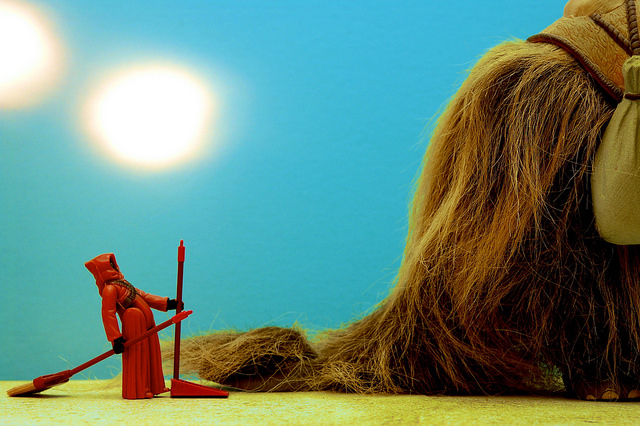
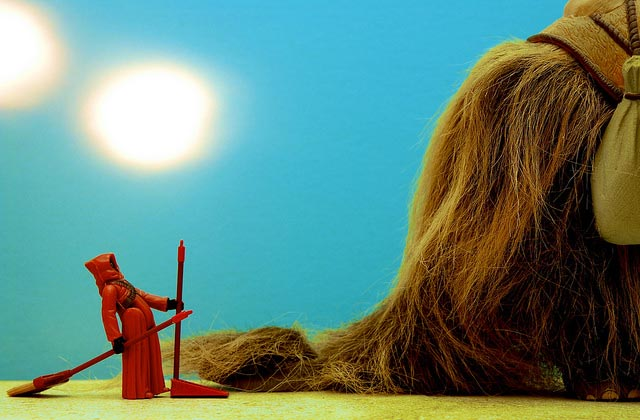
Impl the image slider using css local modules
- Update images - lower res, smaller filesize, consistent dimensions

diff --git a/src/index.js b/src/index.js
@@ -1,11 +1,57 @@
+import autobind from 'autobind-decorator'
 import React from 'react'
-import styleable from 'react-styleable'
 
-@styleable(require('./index.css'))
+import Carousel from './carousel'
+import css from './index.css'
+import Frame from './frame'
+import Nav from './nav'
+import Slide from './slide'
+
+@autobind
 export default class DriftApp extends React.Component {
+  state = {
+    showIndex: 0,
+    numSlides: 5
+  }
+  handleClickPrevious() {
+    this.setState({
+      showIndex: Math.max(this.state.showIndex - 1, 0)
+    })
+  }
+  handleClickNext() {
+    this.setState({
+      showIndex: Math.min(this.state.showIndex + 1, this.state.numSlides - 1)
+    })
+  }
   render() {
     return (
-      <h1 className={this.props.css.title}>Drift!</h1>
+      <Frame>
+        <Carousel showIndex={this.state.showIndex}>
+          <Nav onPrevious={this.handleClickPrevious} hasPrevious={this.state.showIndex > 0}
+               onNext={this.handleClickNext} hasNext={this.state.showIndex < this.state.numSlides - 1} />
+          <Slide image={require('./images/1.jpg')} title="Imperial Mockery">
+            In a show of defiance, rebels have again made mockery of the majesty that is service to the Empire.
+            These objects were immediately removed from the reflecting pool in Coruscant's Central Square when found
+            this morning.
+          </Slide>
+          <Slide image={require('./images/2.jpg')} title="Trooper Initiation">
+            In a tradition that predates the Empire, Troopers seen here are made to suffer the agony of
+            the limbo line.  Such initiation techniques are currently under Imperial review.
+          </Slide>
+          <Slide image={require('./images/3.jpg')} title="Master and Apprentice">
+            Internships work!  When determining a career path, it is wise to first find someone currently in that line of
+            work.  They will likely be able to show you what it's really like before you commit your future.
+          </Slide>
+          <Slide image={require('./images/4.jpg')} title="Battle of Coruscant">
+            Modelers ran out of the pre-Empire model Star Destroyers in this reenactment of the Battle of Coruscant.
+            Various plans for future machines of war were used as filler.
+          </Slide>
+          <Slide image={require('./images/5.jpg')} title="The Wiles of the Forest">
+            After a number of nervous breakdowns, Empire personnel officers are investigating the possibility
+            rotating troopers stationed on the forest moons of Endor after several rotations.
+          </Slide>
+        </Carousel>
+      </Frame>
     )
   }
 }

diff --git a/src/carousel.js b/src/carousel.js
@@ -1,0 +1,48 @@
+import React from 'react/addons'
+import styleable from 'react-styleable'
+
+const { number } = React.PropTypes
+
+@styleable(require('./carousel.css'))
+export default class Carousel extends React.Component {
+  static propTypes = {
+    width: number,
+    showIndex: number
+  }
+  static defaultProps = {
+    width: 640,
+    showIndex: 0
+  }
+  renderNav() {
+    var nav
+    React.Children.forEach(this.props.children, (child, i) => {
+      if (/Nav/.test(child.type.displayName))
+        nav = child
+    })
+    return nav
+  }
+  renderSlides() {
+    var slides = []
+    var slideIndex = 0
+    React.Children.forEach(this.props.children, (child, i) => {
+      if (/Slide/.test(child.type.displayName)) {
+        slides.push(React.addons.cloneWithProps(child, {
+          key: i,
+          style: {
+            width: this.props.width,
+            left: this.props.width * (slideIndex++ - this.props.showIndex)
+          }
+        }))
+      }
+    })
+    return slides
+  }
+  render() {
+    return (
+      <div className={this.props.css.root}>
+        {this.renderSlides()}
+        {this.renderNav()}
+      </div>
+    )
+  }
+}

diff --git a/src/nav.js b/src/nav.js
@@ -1,0 +1,28 @@
+import React from 'react'
+import styleable from 'react-styleable'
+
+const { func, bool } = React.PropTypes
+
+@styleable(require('./nav.css'))
+export default class Nav extends React.Component {
+  static propTypes = {
+    onPrevious: func.isRequired,
+    onNext: func.isRequired,
+    hasPrevious: bool,
+    hasNext: bool
+  }
+  getPrevClassName() {
+    return this.props.hasPrevious ? this.props.css.prev : this.props.css.prevHidden
+  }
+  getNextClassName() {
+    return this.props.hasNext ? this.props.css.next : this.props.css.nextHidden
+  }
+  render() {
+    return (
+      <div className={this.props.css.root}>
+        <button className={this.getPrevClassName()} onClick={this.props.onPrevious}>&#10094;</button>
+        <button className={this.getNextClassName()} onClick={this.props.onNext}>&#10095;</button>
+      </div>
+    )
+  }
+}

diff --git a/src/slide.js b/src/slide.js
@@ -1,0 +1,21 @@
+import React from 'react'
+import styleable from 'react-styleable'
+
+@styleable(require('./slide.css'))
+export default class Slide extends React.Component {
+  static propTypes = {
+    image: React.PropTypes.string.isRequired,
+    title: React.PropTypes.string
+  }
+  render() {
+    return (
+      <article className={this.props.css.root} style={this.props.style}>
+        <img className={this.props.css.image} src={this.props.image} alt={this.props.title} />
+        <footer className={this.props.css.footer}>
+          <h2 className={this.props.css.title}>{this.props.title}</h2>
+          <div className={this.props.css.desc}>{this.props.children}</div>
+        </footer>
+      </article>
+    )
+  }
+}

diff --git a/src/nav.css b/src/nav.css
@@ -1,0 +1,40 @@
+@import "./config.css";
+
+.root {
+  position: absolute;
+  top: 0;
+  left: 0;
+  width: 100%;
+  display: flex;
+}
+.btn {
+  flex: 1;
+  height: var(--imageHeight);
+  padding: 20px;
+  vertical-align: top;
+  font-size: 50px;
+  background: transparent;
+  color: #fff;
+  text-shadow: 1px 1px 3px rgba(0, 0, 0, .6);
+  border: none;
+  outline: 0;
+  cursor: pointer;
+  user-select: none;
+}
+.hidden {
+  visibility: hidden;
+}
+.prev {
+  composes: btn;
+  text-align: left;
+}
+.next {
+  composes: btn;
+  text-align: right;
+}
+.prevHidden {
+  composes: prev hidden;
+}
+.nextHidden {
+  composes: next hidden;
+}

diff --git a/src/slide.css b/src/slide.css
@@ -1,0 +1,24 @@
+@import "./config.css";
+
+:root {
+  --footerHeight: 110px;
+}
+
+.root {
+  position: absolute;
+  top: 0;
+}
+.footer {
+  position: absolute;
+  top: calc(var(--imageHeight) - var(--footerHeight));
+  left: 0;
+  width: 100%;
+  height: var(--footerHeight);
+  padding: 15px;
+  background: rgba(0, 0, 0, .3);
+  color: #fff;
+  text-shadow: 1px 1px 0 rgba(0, 0, 0, .6);
+}
+.title {
+  margin: 0 0 10px 0;
+}

diff --git a/src/frame.js b/src/frame.js
@@ -1,0 +1,13 @@
+import React from 'react'
+import styleable from 'react-styleable'
+
+@styleable(require('./frame.css'))
+export default class Frame extends React.Component {
+  render() {
+    return (
+      <div className={this.props.css.root}>
+        {this.props.children}
+      </div>
+    )
+  }
+}

diff --git a/src/frame.css b/src/frame.css
@@ -1,0 +1,14 @@
+@import "./config.css";
+:root {
+  --paddingHorz: 20px;
+}
+
+.root {
+  position: relative;
+  max-width: 100%;
+  width: calc(var(--imageWidth) + 2 * var(--paddingHorz));
+  margin: 0 auto;
+  padding: 20px var(--paddingHorz);
+  border: 1px solid #ababab;
+  border-radius: 5px;
+}

diff --git a/src/index.css b/src/index.css
@@ -1,6 +1,8 @@
-:global body {
-  background: lightblue;
+:global * {
+  box-sizing: border-box;
 }
-.title {
-  font-family: sans-serif;
+:global html {
+  font-family: "Helvetica Neue", Helvetica, Arial, sans-serif;
+  font-size: 14px;
+  line-height: 1.4em;
 }

diff --git a/src/carousel.css b/src/carousel.css
@@ -1,0 +1,5 @@
+.root {
+  position: relative;
+  overflow: hidden;
+  height: 420px;
+}

diff --git a/src/config.css b/src/config.css
@@ -1,0 +1,4 @@
+:root {
+  --imageWidth: 640px;
+  --imageHeight: 420px;
+}
